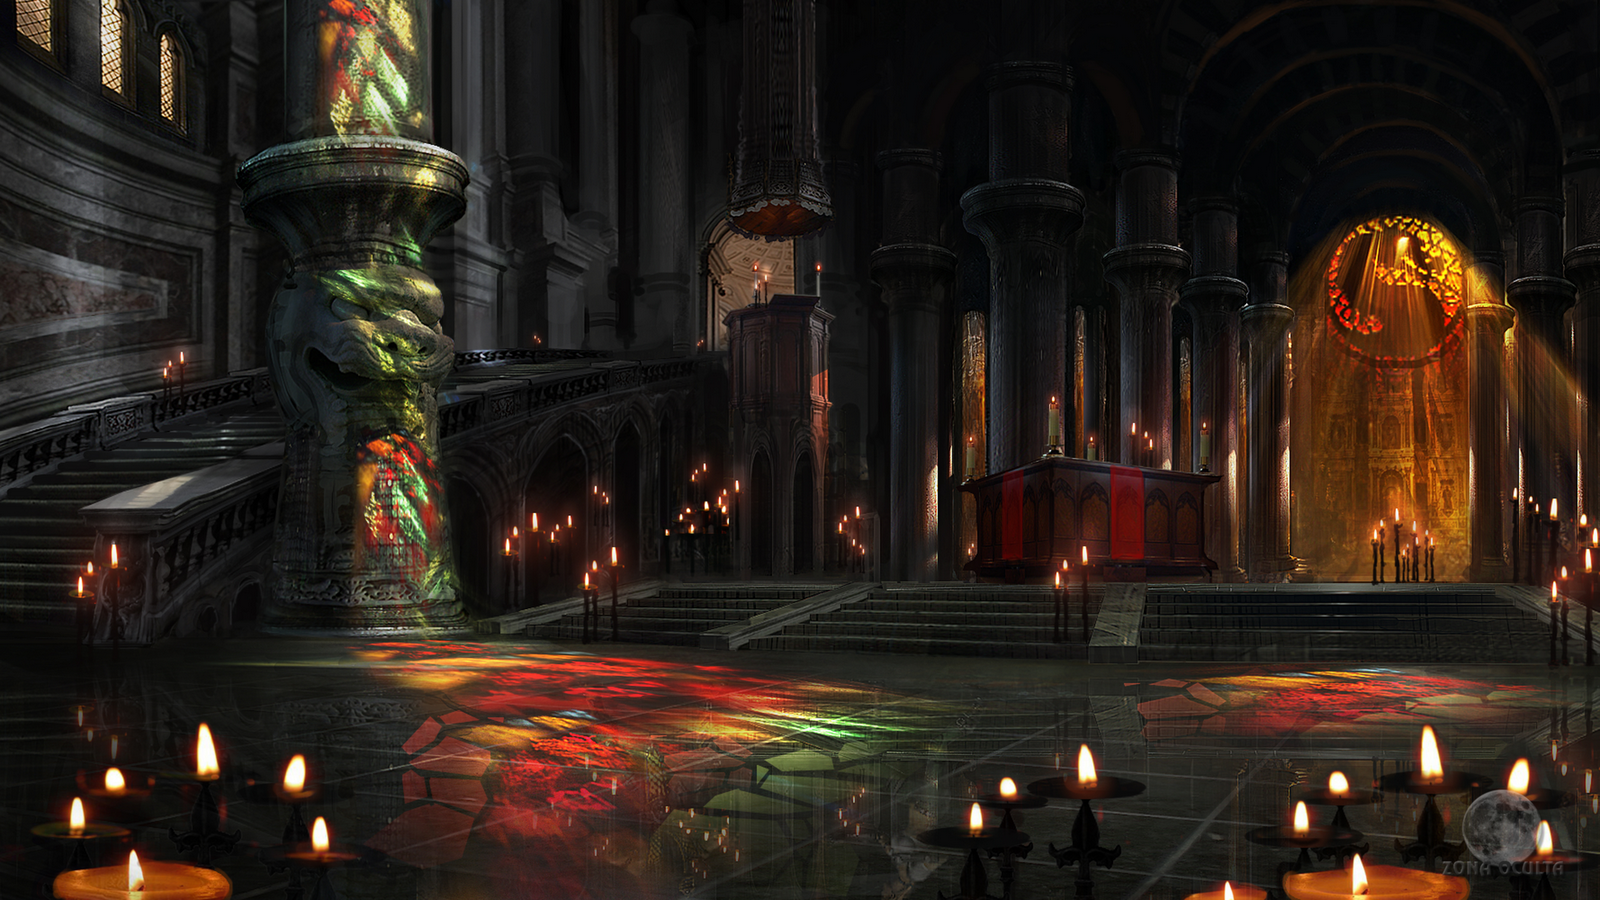
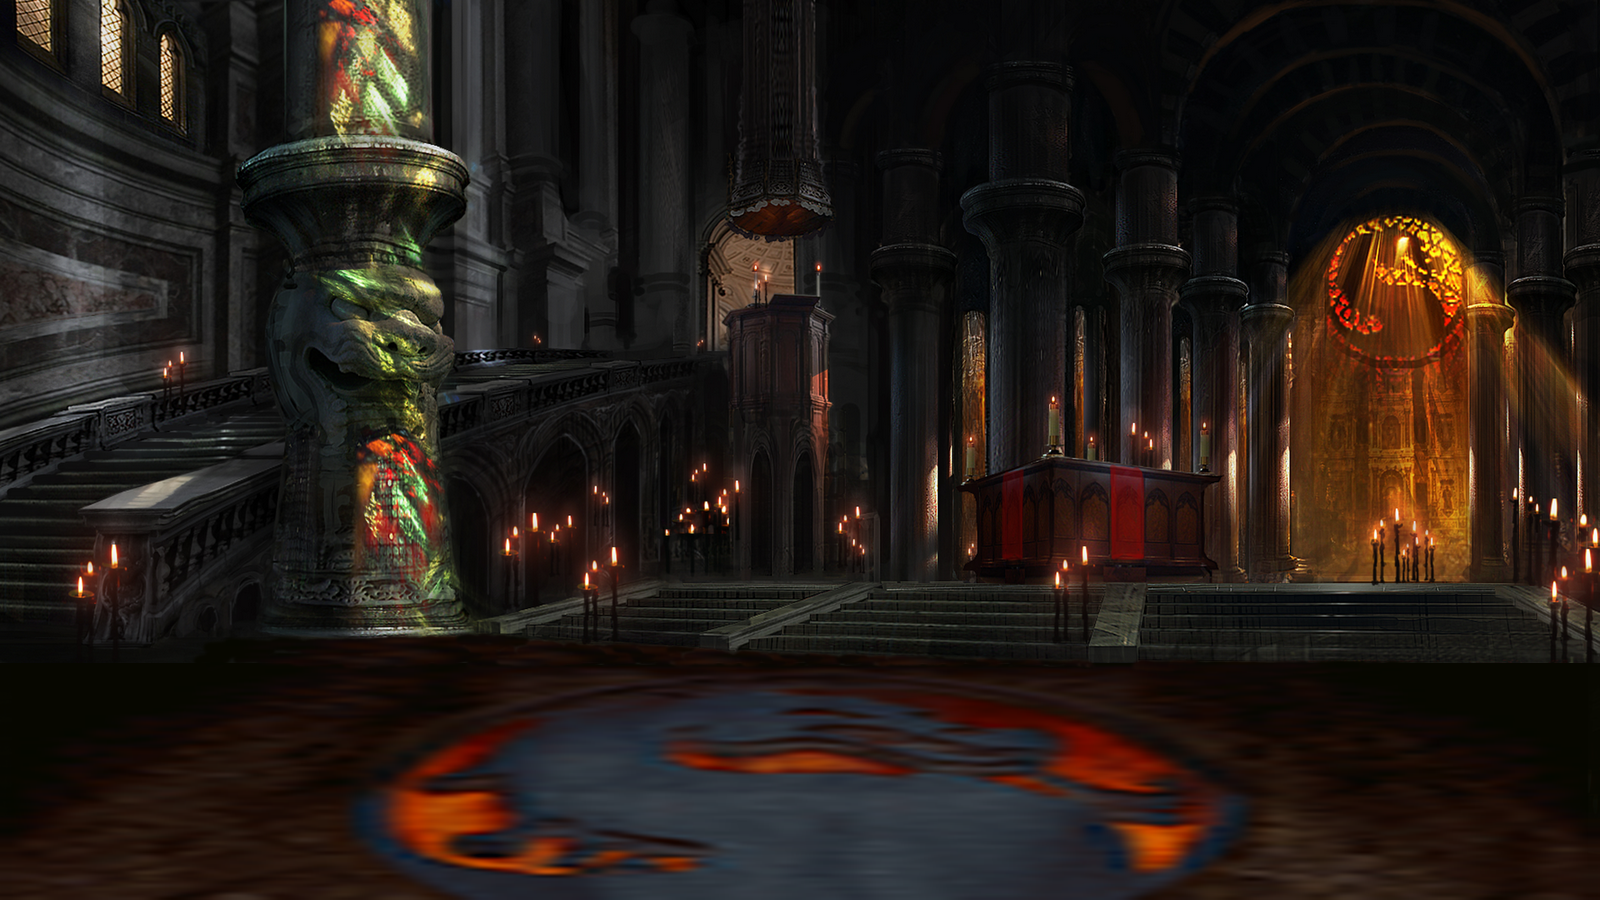
plant level decoration added

Changed region(s): [[0.0, 0.6844, 1.0, 1.0]]

diff --git a/script.js b/script.js
@@ -837,3 +837,145 @@ function changeLevel(level){
   document.getElementById("page-wrapper").className += level;
 }
 
+/////  Sparks
+
+
+var particles = [];
+var alreadyRendering = false;
+
+// originally from Rachel Smith on CodePen http://codepen.io/rachsmith/pen/oXBOwg
+/* global particles */
+function sparkShower(startx, starty, sparkWidth, sparkHeight) {
+  var canvas = document.getElementById('canvas');
+  var ctx = canvas.getContext('2d');
+  var width = canvas.width = sparkWidth;
+  var height = canvas.height = sparkHeight;
+  var colors = ['#ebff55', '#ebff55', '#ebff55'];
+  // this is only used for simple gravity
+  var gravity = 0.08;
+  //var particles = [];
+  var floor = sparkHeight;
+  var currentlySparking = false;
+  var maxSize = 5;
+  // This is the acceleration of Gravity in m/s.
+  var ag = 9.81;
+
+  function initParticles() {
+    currentlySparking = true;
+    for (var i = 0; i < 50; i++) {
+      setTimeout(function() {
+        createParticle(i);
+        createParticle(i * 2);
+      }, i);
+    }
+  }
+
+  function createParticle(i) {
+    // initial position in middle of canvas
+    var x = startx;
+    var y = starty;
+    var z = (Math.random() * 2);
+    // randomize the vx and vy a little - but we still want them flying 'up' and 'out'
+    var maxex = Math.random() * 20;
+    var vx = (Math.random() * maxex) - (maxex / 2);
+    var vy = (Math.random() * -20);
+    // velocity size?
+    var vsize = 0;
+    // randomize size and opacity a little & pick a color from our color palette
+    var size = 1 + Math.random();
+    var color = colors[Math.floor(Math.random() * colors.length)];
+    var opacity = 0.5 + Math.random() * 0.5;
+    var d = new Date();
+    var startTime = d.getTime();
+    var p = new Particle(x, y, z, vx, vy, size, vsize, color, opacity, startTime, startTime);
+    p.finished = false;
+    particles.push(p);
+  }
+
+  function Particle(x, y, z, vx, vy, size, vsize, color, opacity, startTime, lastTime) {
+
+    function reset() {
+      opacity = 0;
+      this.finished = true;
+    }
+
+    this.update = function() {
+      // if a particle has faded to nothing we can reset it to the starting position
+      if (opacity - 0.0005 > 0) opacity -= 0.0005;
+      else reset();
+      // simple gravity
+      //vy += gravity;
+      var d = new Date();
+      var timeNow = d.getTime();
+      // Calculate gravity based on time elapsed since last update in lastTime
+      // Pixels per "Meter" = 4735 = 4.7
+      // Velocity of Y = Acceleration of Gravity in meters per second * number of seconds since last calc * pixels-per-meter
+      if (timeNow > lastTime)
+        vy += (ag * ((timeNow - lastTime) / 1000) * 4.7);
+      lastTime = timeNow;
+      x += vx;
+      y += vy;
+      if (y > (floor + 10)) this.finished = true;
+      if (size < maxSize) size += vsize * z;
+      if ((opacity < 0.5) && (y < floor)) {
+        vsize = 0.55 - opacity;
+      } else {
+        vsize = 0;
+      }
+      // add bouncing off the floor
+      if (y > floor) {
+        vy = vy * -0.4;
+        vx = vx * 0.96;
+      }
+    };
+
+    this.draw = function() {
+      ctx.globalAlpha = opacity;
+      ctx.fillStyle = color;
+      //ctx.fillRect(x, y, size, size);
+      ctx.beginPath();
+      ctx.arc(x, y, size, 0, 2 * Math.PI);
+      ctx.fill();
+    };
+  }
+
+  function render() {
+    alreadyRendering = true;
+    ctx.clearRect(0, 0, width, height);
+    for (var i = 0; i < particles.length; i++) {
+      if (typeof particles[i] !== "undefined") {
+        if (particles[i].finished === true) {
+          particles.splice(i, 1);
+        } else {
+          particles[i].update();
+          particles[i].draw();
+        }
+      }
+    }
+    requestAnimationFrame(render);
+  }
+
+  // resize
+  window.addEventListener('resize', resize);
+
+  function resize() {
+    width = canvas.width = window.innerWidth;
+    height = canvas.height = window.innerHeight;
+  }
+
+  // init
+  initParticles();
+  if (!alreadyRendering)
+    render();
+}
+
+function infoButtonClick() {
+  var toggleButton = $('#toggle-info');
+  var initialY = toggleButton.position().left + (toggleButton.width() / 2);
+  var initialX = toggleButton.position().top + (toggleButton.height() / 2);
+  var sparkCanvas = $('#canvas');
+  var sparkWidth = sparkCanvas.width();
+  var sparkHeight = sparkCanvas.height();
+  //var sparkHeight = $('.video-stream').position().top;
+  sparkShower(initialY, initialX, sparkWidth, sparkHeight);
+}

diff --git a/style.css b/style.css
@@ -182,6 +182,16 @@ body {
 	bottom: 11px;
 }
 
+.plant-level .level-floor-decor{
+	background: url(img/levels/plant/floor-decor.png);
+	background-size: 6% 100%;
+	position: absolute;
+	width: 100%;
+	left: 0;
+	z-index: 1;
+	height: 55px;
+	bottom: 59px;
+}
 
 .plant-level .level-floor:after{
 	content: '';
@@ -1044,3 +1054,18 @@ button{
 	top: 65px;
 }
 
+#toggle-info{
+	position: absolute;
+	top: 25%; 
+	right: 0%; 
+	z-index: 99;
+}
+
+#canvas {
+  position: absolute;
+  top: 0;
+  left: 0;
+  z-index: 98;
+  width: 100%;
+  height: 96%;
+}

diff --git a/index.html b/index.html
@@ -7,11 +7,16 @@
 	<meta name="description" content="" />
 	<link href="style.css" rel="stylesheet">
 	<link rel="icon" href="img/page-icon.png" type="image/png">
+	<script src="http://code.jquery.com/jquery-latest.min.js" type="text/javascript"></script>
 </head>
 
 <body>
 
 <div id="page-wrapper" class="plant-level">
+	<canvas id="canvas"></canvas>
+	<button id="toggle-info" onclick="infoButtonClick()">
+        I AM A BUTTON
+    </button>
 	<div class="level-decor">
 		<div class="level-sky">
 			<div class="sky-decor">
